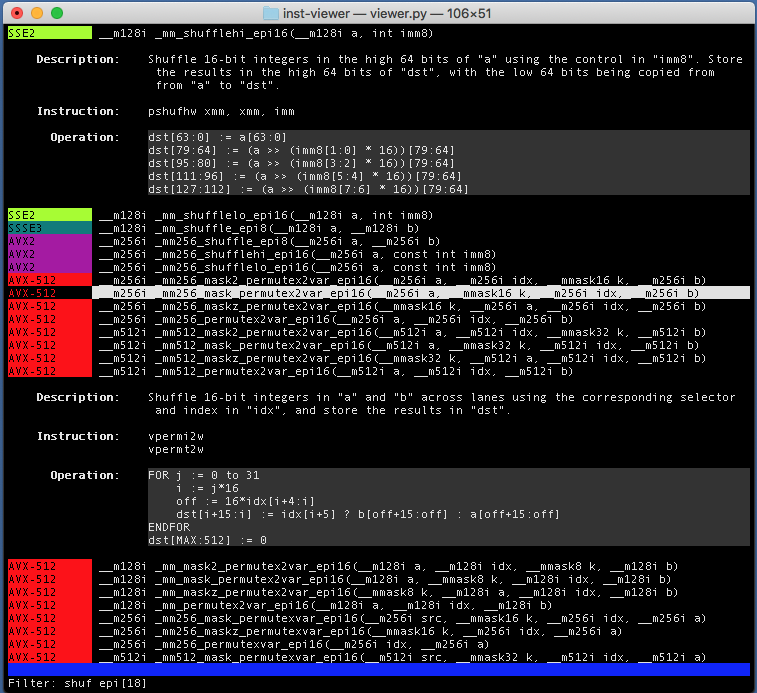
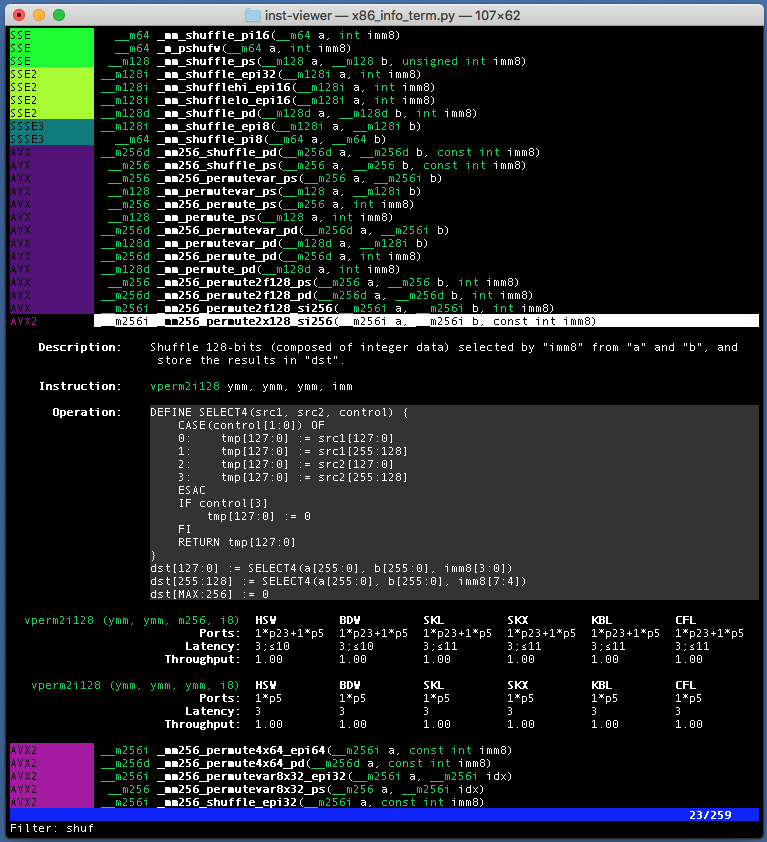
Update readme/screenshot

diff --git a/README.md b/README.md
@@ -1,9 +1,22 @@
 x86-info-term
 ===
-x86-info-term is a curses-based viewer for x86 instruction info built with Python 3.
-
-Right now this is just a terminal version of the [Intel Intrinsics Guide](https://software.intel.com/sites/landingpage/IntrinsicsGuide/).
-
-Basic vim keybindings are supported. See the source for more details--no documentation yet!
+x86-info-term is a curses-based viewer for x86 instruction info built with
+Python 3. It combines the following data sources:
+* Intrinsics from the [Intel Intrinsics Guide](https://software.intel.com/sites/landingpage/IntrinsicsGuide/).
+* Performance info from [uops.info](https://uops.info).
 
 ![screenshot](screenshot.png)
+
+Details
+===
+
+Right now, performance information is joined to the intrinsics in an imperfect
+way: the performance info for all instruction variants that match one of the
+instructions listed in the Intrinsics guide are shown. This means that sometimes
+spurious instructions are shown, suchs as showing both loads and stores under
+a load intrinsic, or showing instruction variants with the wrong vector sizes.
+Normalizing the instruction operand formats used by the Intrinsics Guide and uops.info
+to fix this is rather tricky, and for now I have opted for showing extraneous
+data rather than not showing possibly relevant data.
+
+Basic vim keybindings are supported. See the source for more details--no documentation yet!
